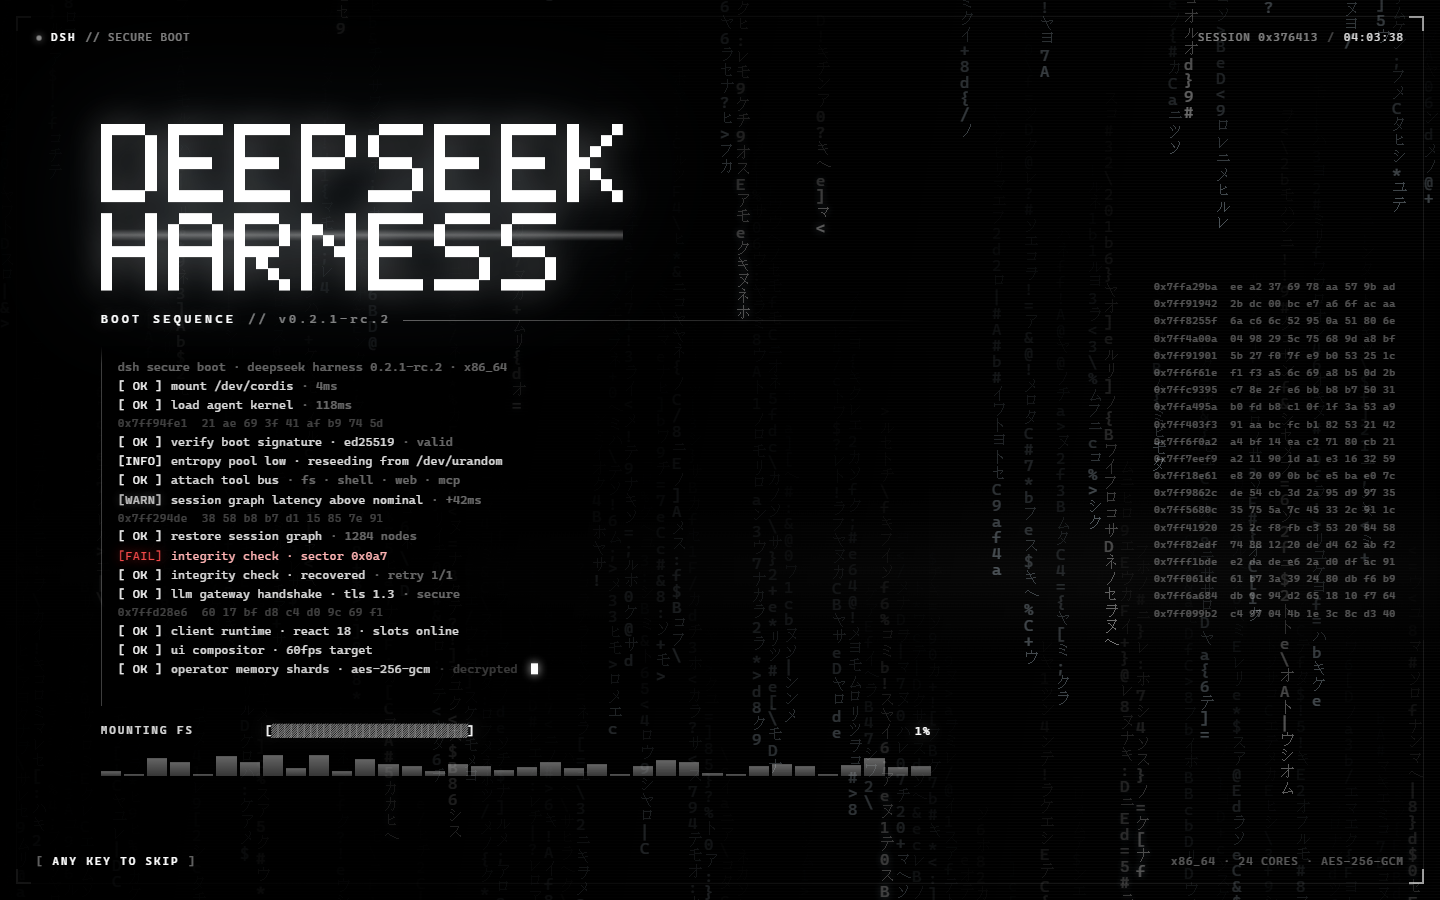
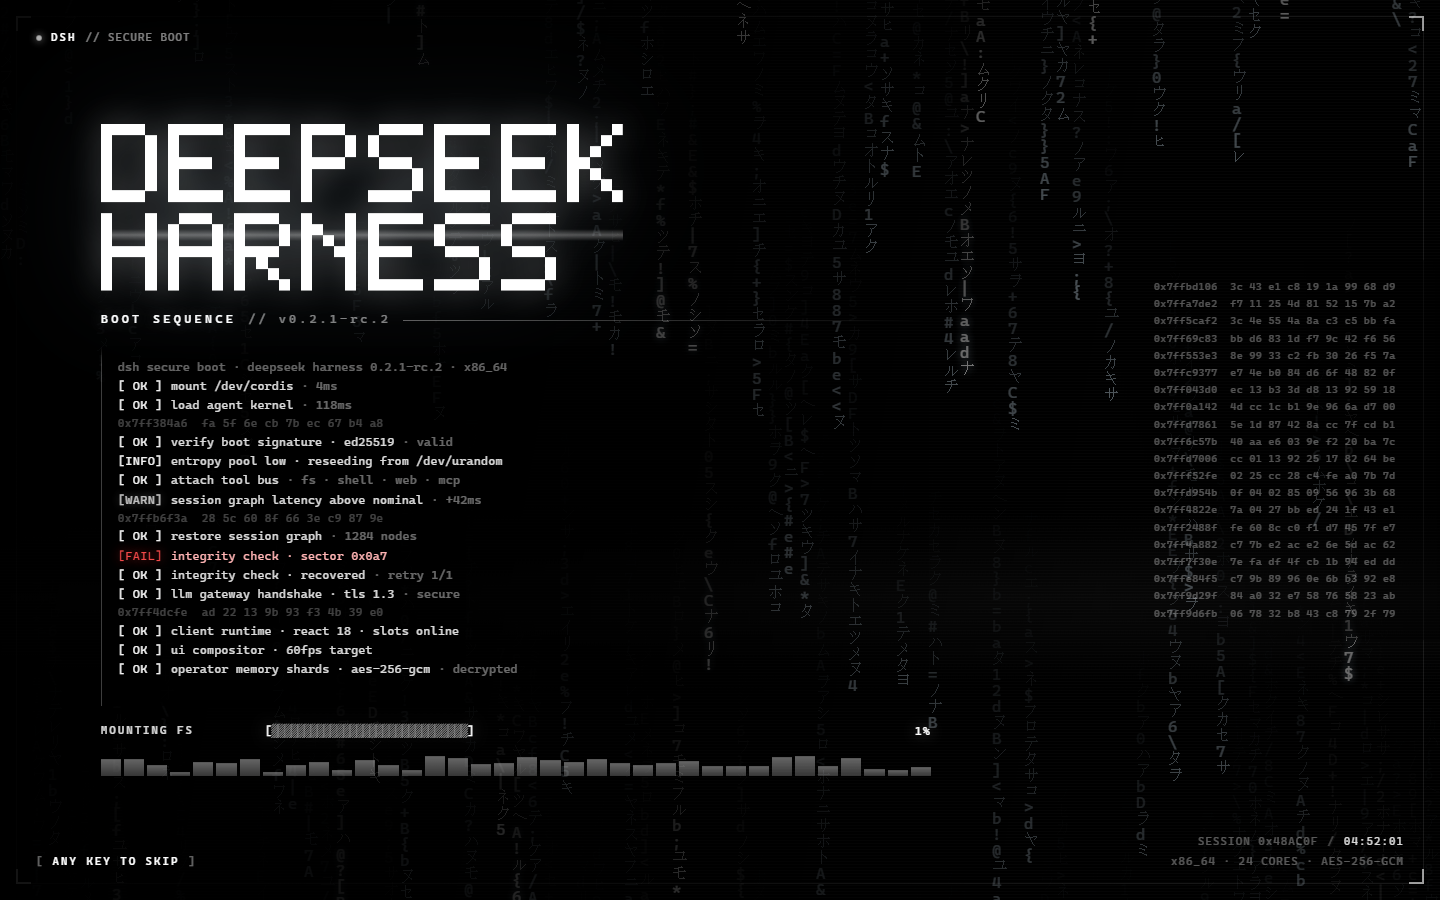
feat: 右上角 HUD 移到右下角，避免被窗口按钮压住
- SESSION / 时钟从右上角挪到右下角，与硬件信息排成两行右对齐；右上角不再放任何元素
- 主面板改 flex 列 + max-height，日志弹性收缩：1080×693 下不再与右下角 HUD 重叠
- README 与截图同步更新

diff --git a/lib/client.js b/lib/client.js
@@ -84,18 +84,19 @@ window.__ModuleLoader__.load({
 #dsh-boot-sequence .dbs-frame i:nth-child(4){bottom:-1px;right:-1px;border-bottom-width:2px;border-right-width:2px}
 #dsh-boot-sequence .dbs-hud{position:absolute;display:flex;align-items:center;gap:9px;font-size:10.5px;letter-spacing:.13em;color:rgba(255,255,255,.5);pointer-events:none;z-index:5;white-space:nowrap}
 #dsh-boot-sequence .dbs-hud--tl{top:calc(30px + var(--dbs-top,0px));left:36px}
-#dsh-boot-sequence .dbs-hud--tr{top:calc(30px + var(--dbs-top,0px));right:36px}
 #dsh-boot-sequence .dbs-hud--bl{bottom:30px;left:36px;color:rgba(255,255,255,.42)}
-#dsh-boot-sequence .dbs-hud--br{bottom:30px;right:36px;color:rgba(255,255,255,.34)}
+#dsh-boot-sequence .dbs-hud--br{bottom:30px;right:36px;flex-direction:column;align-items:flex-end;gap:5px;color:rgba(255,255,255,.34)}
+#dsh-boot-sequence .dbs-br-line{display:flex;align-items:center;gap:9px}
 #dsh-boot-sequence .dbs-hud b{color:#fff;font-weight:600;letter-spacing:.22em}
 #dsh-boot-sequence .dbs-hud em{font-style:normal;color:rgba(255,255,255,.28)}
 #dsh-boot-sequence .dbs-dot{width:6px;height:6px;border-radius:50%;background:#fff;box-shadow:0 0 9px rgba(255,255,255,.95);animation:dbs-pulse 1.7s ease-in-out infinite}
 @keyframes dbs-pulse{0%,100%{opacity:1;transform:scale(1)}50%{opacity:.25;transform:scale(.78)}}
 #dsh-boot-sequence .dbs-clock{color:rgba(255,255,255,.85);font-variant-numeric:tabular-nums}
-#dsh-boot-sequence .dbs-main{position:absolute;left:clamp(28px,7vw,120px);top:calc(50% + var(--dbs-top,0px) * .5);transform:translateY(-50%);width:min(830px,86vw);z-index:4;transition:opacity .35s ease,filter .35s ease}
+#dsh-boot-sequence .dbs-main{position:absolute;left:clamp(28px,7vw,120px);top:calc(50% + var(--dbs-top,0px) * .5);transform:translateY(-50%);width:min(830px,86vw);max-height:calc(100% - var(--dbs-top,0px) - 152px);display:flex;flex-direction:column;z-index:4;transition:opacity .35s ease,filter .35s ease}
+#dsh-boot-sequence .dbs-logo,#dsh-boot-sequence .dbs-sub,#dsh-boot-sequence .dbs-bar,#dsh-boot-sequence .dbs-spec{flex:0 0 auto}
 #dsh-boot-sequence[data-phase="granted"] .dbs-main{opacity:.16;filter:blur(1.5px)}
 #dsh-boot-sequence .dbs-hex{font-family:inherit}
-#dsh-boot-sequence .dbs-logo{position:relative;width:min(600px,44vw,58vh);margin:0 0 20px;filter:drop-shadow(0 0 16px rgba(255,255,255,.3)) drop-shadow(0 0 56px rgba(170,215,255,.16));animation:dbs-logo-glitch 6.4s steps(1,end) infinite}
+#dsh-boot-sequence .dbs-logo{position:relative;align-self:flex-start;width:min(600px,44vw,58vh);margin:0 0 20px;filter:drop-shadow(0 0 16px rgba(255,255,255,.3)) drop-shadow(0 0 56px rgba(170,215,255,.16));animation:dbs-logo-glitch 6.4s steps(1,end) infinite}
 #dsh-boot-sequence .dbs-logo svg{display:block;width:100%;height:auto;overflow:visible;clip-path:inset(0 100% 0 0);animation:dbs-logo-in .85s steps(30,end) .12s forwards}
 @keyframes dbs-logo-in{to{clip-path:inset(0 0 0 0)}}
 #dsh-boot-sequence .dbs-logo rect{fill:#fff}
@@ -107,7 +108,7 @@ window.__ModuleLoader__.load({
 #dsh-boot-sequence .dbs-sub{display:flex;align-items:center;gap:12px;margin-bottom:18px;font-size:11.5px;letter-spacing:.3em;color:rgba(255,255,255,.5);white-space:nowrap}
 #dsh-boot-sequence .dbs-sub b{color:#fff;font-weight:600;letter-spacing:.32em;text-shadow:0 0 16px rgba(255,255,255,.35)}
 #dsh-boot-sequence .dbs-subline{flex:1;height:1px;background:linear-gradient(90deg,rgba(255,255,255,.42),rgba(255,255,255,0));transform:translateY(1px)}
-#dsh-boot-sequence .dbs-log{position:relative;height:min(46vh,360px);overflow:hidden;padding:12px 16px 10px;background:linear-gradient(90deg,rgba(0,0,0,.8),rgba(0,0,0,.34) 68%,rgba(0,0,0,0));border-left:1px solid rgba(255,255,255,.24);font-size:12px;line-height:1.6;letter-spacing:.015em;color:rgba(255,255,255,.86);-webkit-mask-image:linear-gradient(to bottom,rgba(0,0,0,0) 0,#000 18px,#000 100%);mask-image:linear-gradient(to bottom,rgba(0,0,0,0) 0,#000 18px,#000 100%)}
+#dsh-boot-sequence .dbs-log{position:relative;flex:0 1 auto;height:min(46vh,360px);min-height:88px;overflow:hidden;padding:12px 16px 10px;background:linear-gradient(90deg,rgba(0,0,0,.8),rgba(0,0,0,.34) 68%,rgba(0,0,0,0));border-left:1px solid rgba(255,255,255,.24);font-size:12px;line-height:1.6;letter-spacing:.015em;color:rgba(255,255,255,.86);-webkit-mask-image:linear-gradient(to bottom,rgba(0,0,0,0) 0,#000 18px,#000 100%);mask-image:linear-gradient(to bottom,rgba(0,0,0,0) 0,#000 18px,#000 100%)}
 #dsh-boot-sequence .dbs-line{display:flex;align-items:baseline;gap:8px;white-space:pre;animation:dbs-linein .16s ease both}
 @keyframes dbs-linein{from{opacity:0;transform:translateY(2px)}to{opacity:1;transform:none}}
 #dsh-boot-sequence .dbs-tag{flex:none;color:#fff;opacity:.95;letter-spacing:.04em}
@@ -143,8 +144,7 @@ window.__ModuleLoader__.load({
 #dsh-boot-sequence .dbs-main{left:22px;width:calc(100% - 44px);top:47%}
 #dsh-boot-sequence .dbs-hud{font-size:9px;letter-spacing:.08em}
 #dsh-boot-sequence .dbs-hud--tl,#dsh-boot-sequence .dbs-hud--bl{left:24px}
-#dsh-boot-sequence .dbs-hud--tr,#dsh-boot-sequence .dbs-hud--br{right:24px}
-#dsh-boot-sequence .dbs-hud--br{display:none}
+#dsh-boot-sequence .dbs-hud--br{right:24px;display:none}
 #dsh-boot-sequence .dbs-log{font-size:11px;height:44vh}
 #dsh-boot-sequence .dbs-sub{font-size:9.5px;letter-spacing:.18em}
 #dsh-boot-sequence .dbs-logo{width:min(600px,88vw,44vh)}
@@ -419,17 +419,11 @@ window.__ModuleLoader__.load({
       const frame = el(doc, 'div', 'dbs-frame');
       for (let i = 0; i < 4; i++) frame.appendChild(el(doc, 'i'));
 
-      // 四角 HUD
+      // 四角 HUD（右上角让给窗口按钮，SESSION / 时钟放到右下）
       const hudTL = el(doc, 'div', 'dbs-hud dbs-hud--tl');
       hudTL.appendChild(el(doc, 'span', 'dbs-dot'));
       hudTL.appendChild(el(doc, 'b', null, 'DSH'));
       hudTL.appendChild(el(doc, 'span', null, '// SECURE BOOT'));
-
-      const hudTR = el(doc, 'div', 'dbs-hud dbs-hud--tr');
-      hudTR.appendChild(el(doc, 'span', null, 'SESSION 0x' + hex((Math.random() * 0xffffff) | 0, 6).toUpperCase()));
-      hudTR.appendChild(el(doc, 'em', null, '/'));
-      const clockEl = el(doc, 'span', 'dbs-clock', '--:--:--');
-      hudTR.appendChild(clockEl);
 
       const hudBL = el(doc, 'div', 'dbs-hud dbs-hud--bl');
       hudBL.appendChild(el(doc, 'span', 'dbs-skip', '['));
@@ -437,7 +431,15 @@ window.__ModuleLoader__.load({
       hudBL.appendChild(el(doc, 'span', 'dbs-skip', ']'));
 
       const hudBR = el(doc, 'div', 'dbs-hud dbs-hud--br');
-      hudBR.appendChild(el(doc, 'span', null, 'x86_64 · 24 CORES · AES-256-GCM'));
+      const brSession = el(doc, 'div', 'dbs-br-line');
+      brSession.appendChild(el(doc, 'span', null, 'SESSION 0x' + hex((Math.random() * 0xffffff) | 0, 6).toUpperCase()));
+      brSession.appendChild(el(doc, 'em', null, '/'));
+      const clockEl = el(doc, 'span', 'dbs-clock', '--:--:--');
+      brSession.appendChild(clockEl);
+      const brSpec = el(doc, 'div', 'dbs-br-line');
+      brSpec.appendChild(el(doc, 'span', null, 'x86_64 · 24 CORES · AES-256-GCM'));
+      hudBR.appendChild(brSession);
+      hudBR.appendChild(brSpec);
 
       // 主面板
       const main = el(doc, 'div', 'dbs-main');
@@ -493,7 +495,6 @@ window.__ModuleLoader__.load({
       root.appendChild(hexPanel);
       root.appendChild(main);
       root.appendChild(hudTL);
-      root.appendChild(hudTR);
       root.appendChild(hudBL);
       root.appendChild(hudBR);
       root.appendChild(granted);

diff --git a/README.md b/README.md
@@ -54,17 +54,16 @@ window.DSH_BOOT = {
   rain: true,            // 数据流
   hex: true,             // 右侧十六进制流
   spectrum: true,        // 底部频谱条
-  safeTop: null,         // 顶部安全区（px）。桌面端标题栏会盖住页面顶部，
-                         // 留空则自动测量 [data-tauri-drag-region] 的高度
+  safeTop: null,         // 顶部安全区（px）。留空则自动测量桌面端标题栏高度
 };
 ```
 
-桌面端（Tauri）的窗口标题栏压在页面最上面，右上角还有最小化/最大化/关闭按钮。
-插件会自动量出标题栏高度，把四角 HUD 和边框整体下移，窗口按钮不会再压住 `SESSION / 时钟`。
-浏览器里没有标题栏，测量结果为 0，布局和原来完全一致。
+右上角是桌面端的窗口按钮（最小化 / 最大化 / 关闭），所以那里什么都不放：
+`SESSION 0x… / 时钟` 和硬件信息都收在右下角，顶部只留左角一行 `DSH // SECURE BOOT`。
+Tauri 桌面端会读标题栏高度（`--dbs-top`）让顶部元素避开，浏览器里为 0，布局不受影响。
 
 只想在开发时看一次：打开 `preview.html`，或在 URL 后加 `?hold=boot` / `?hold=granted` 把画面冻结在对应阶段。
-想验证桌面端标题栏的让位效果：加 `?safeTop=32`，预览页会画一条假的标题栏和三个窗口按钮。
+想模拟桌面端标题栏：加 `?safeTop=32`，预览页会画一条假的标题栏和三个窗口按钮。
 
 ## 结构
 
